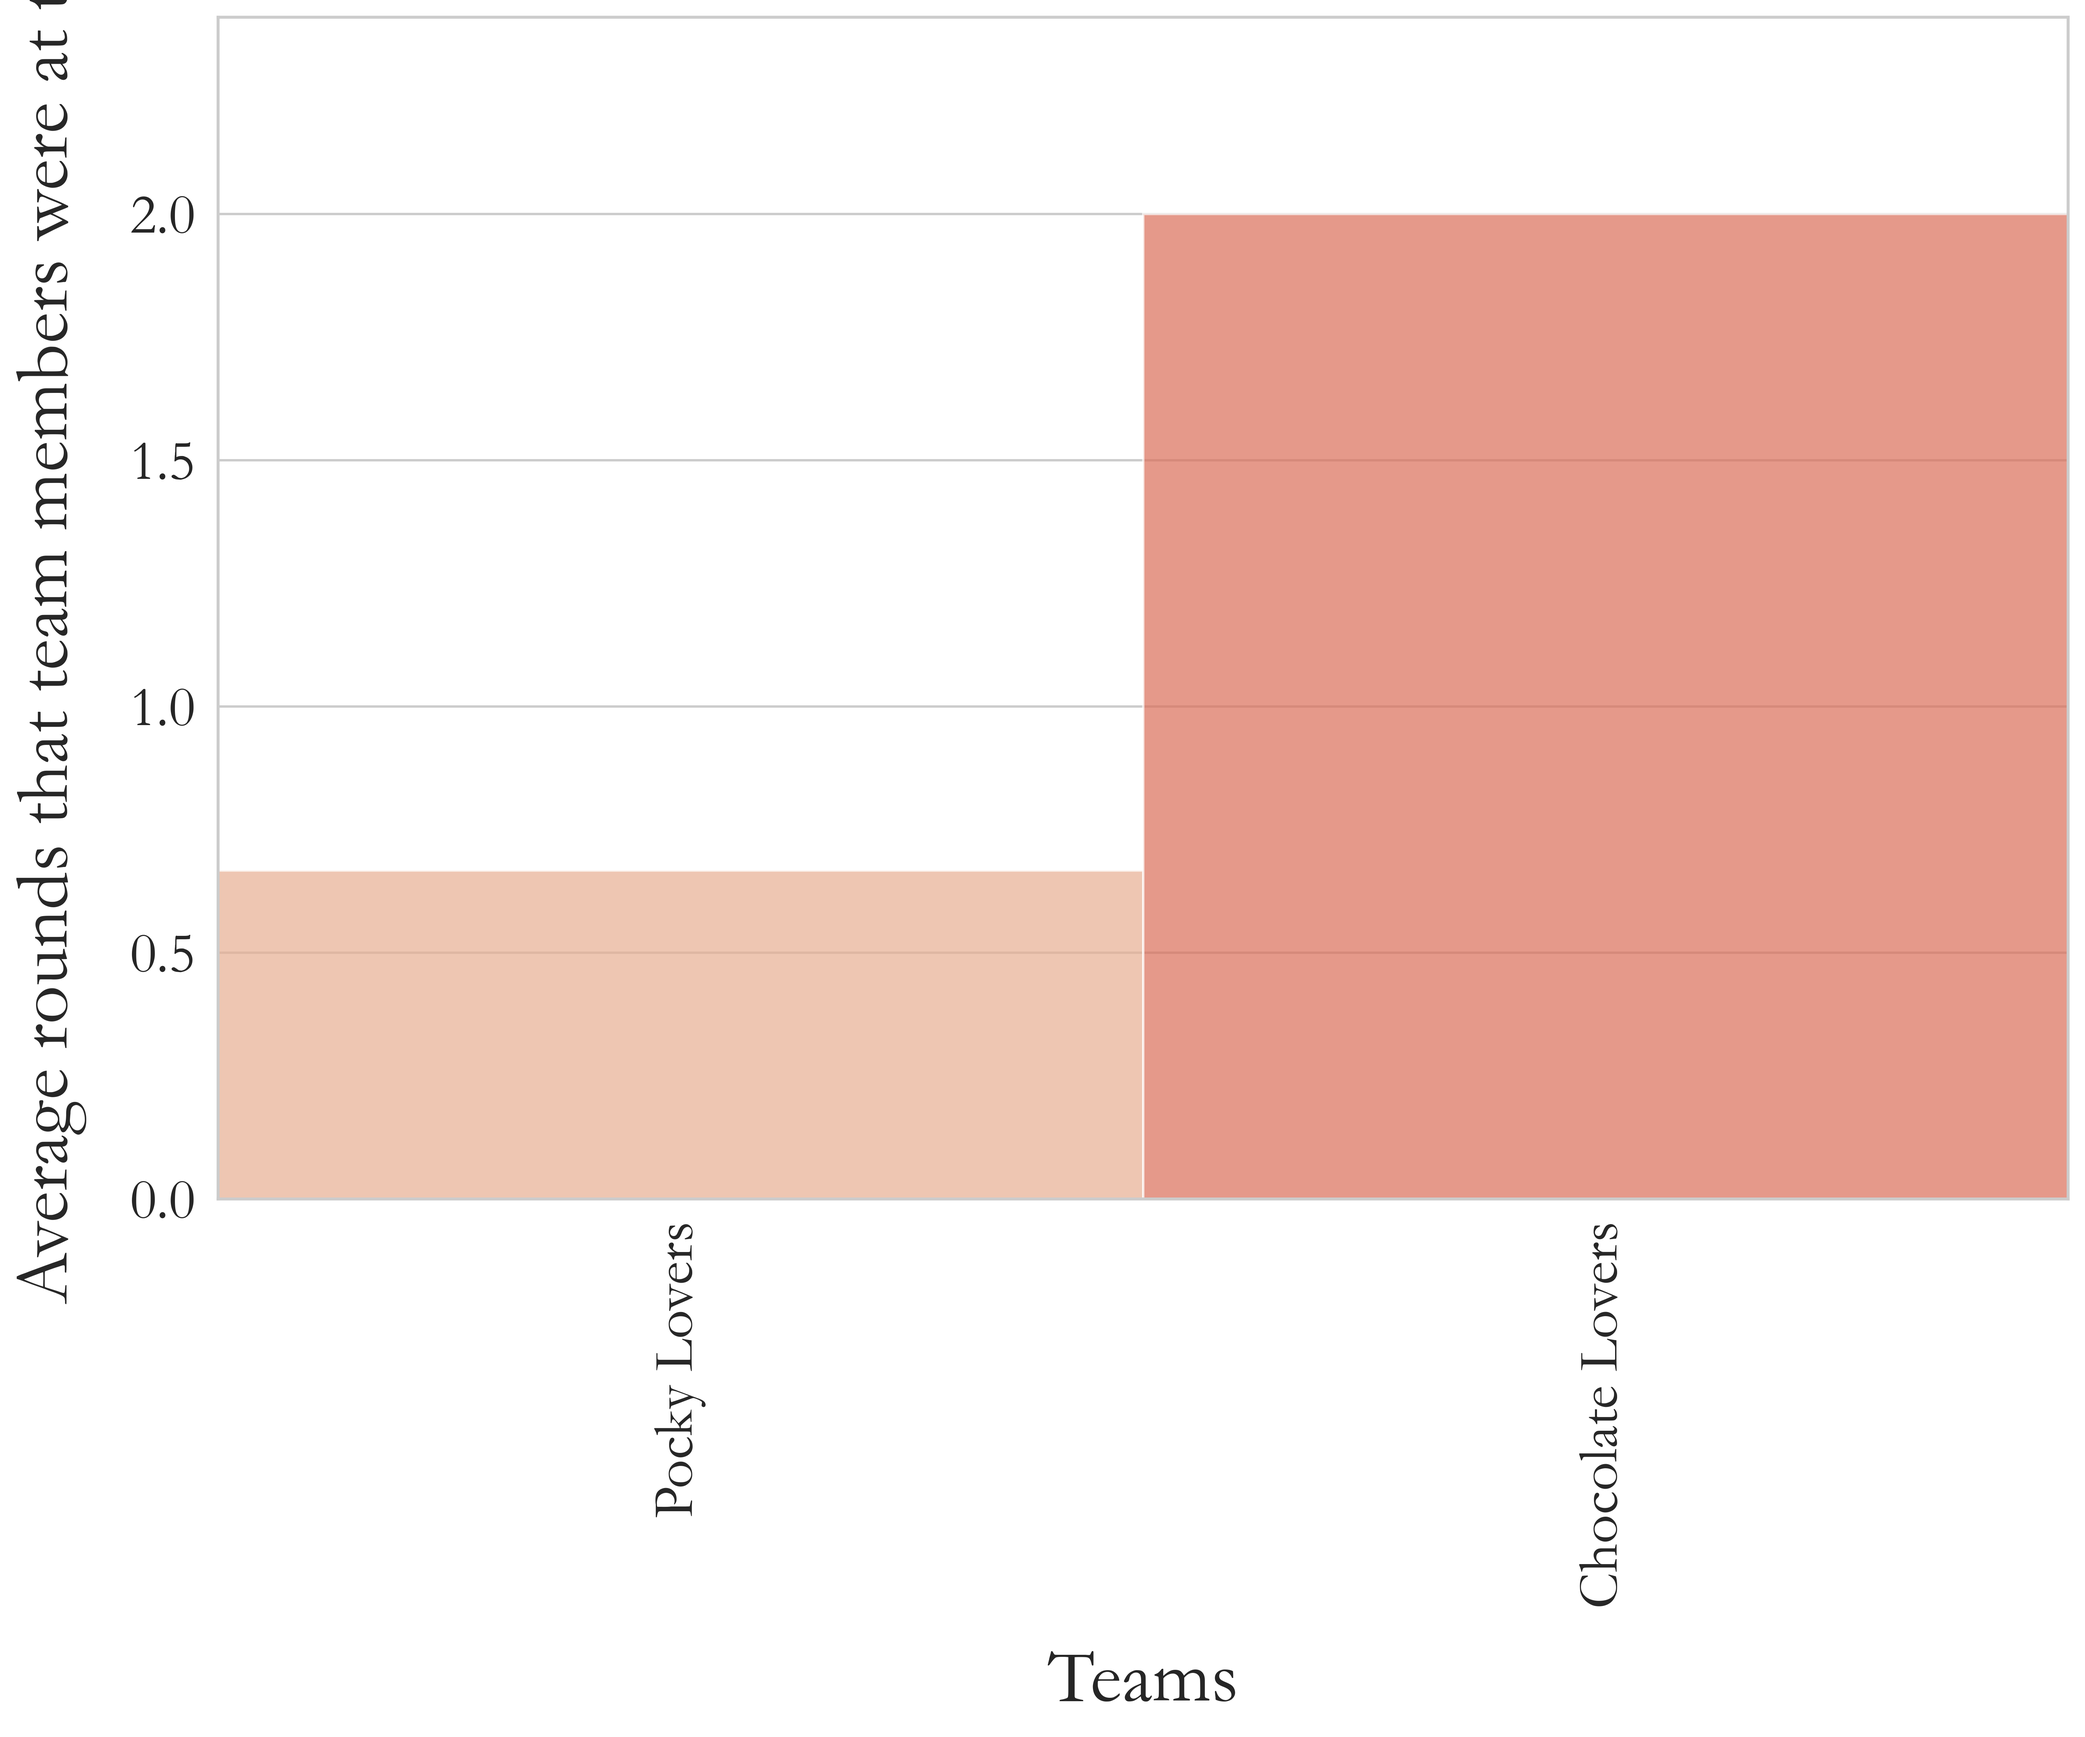
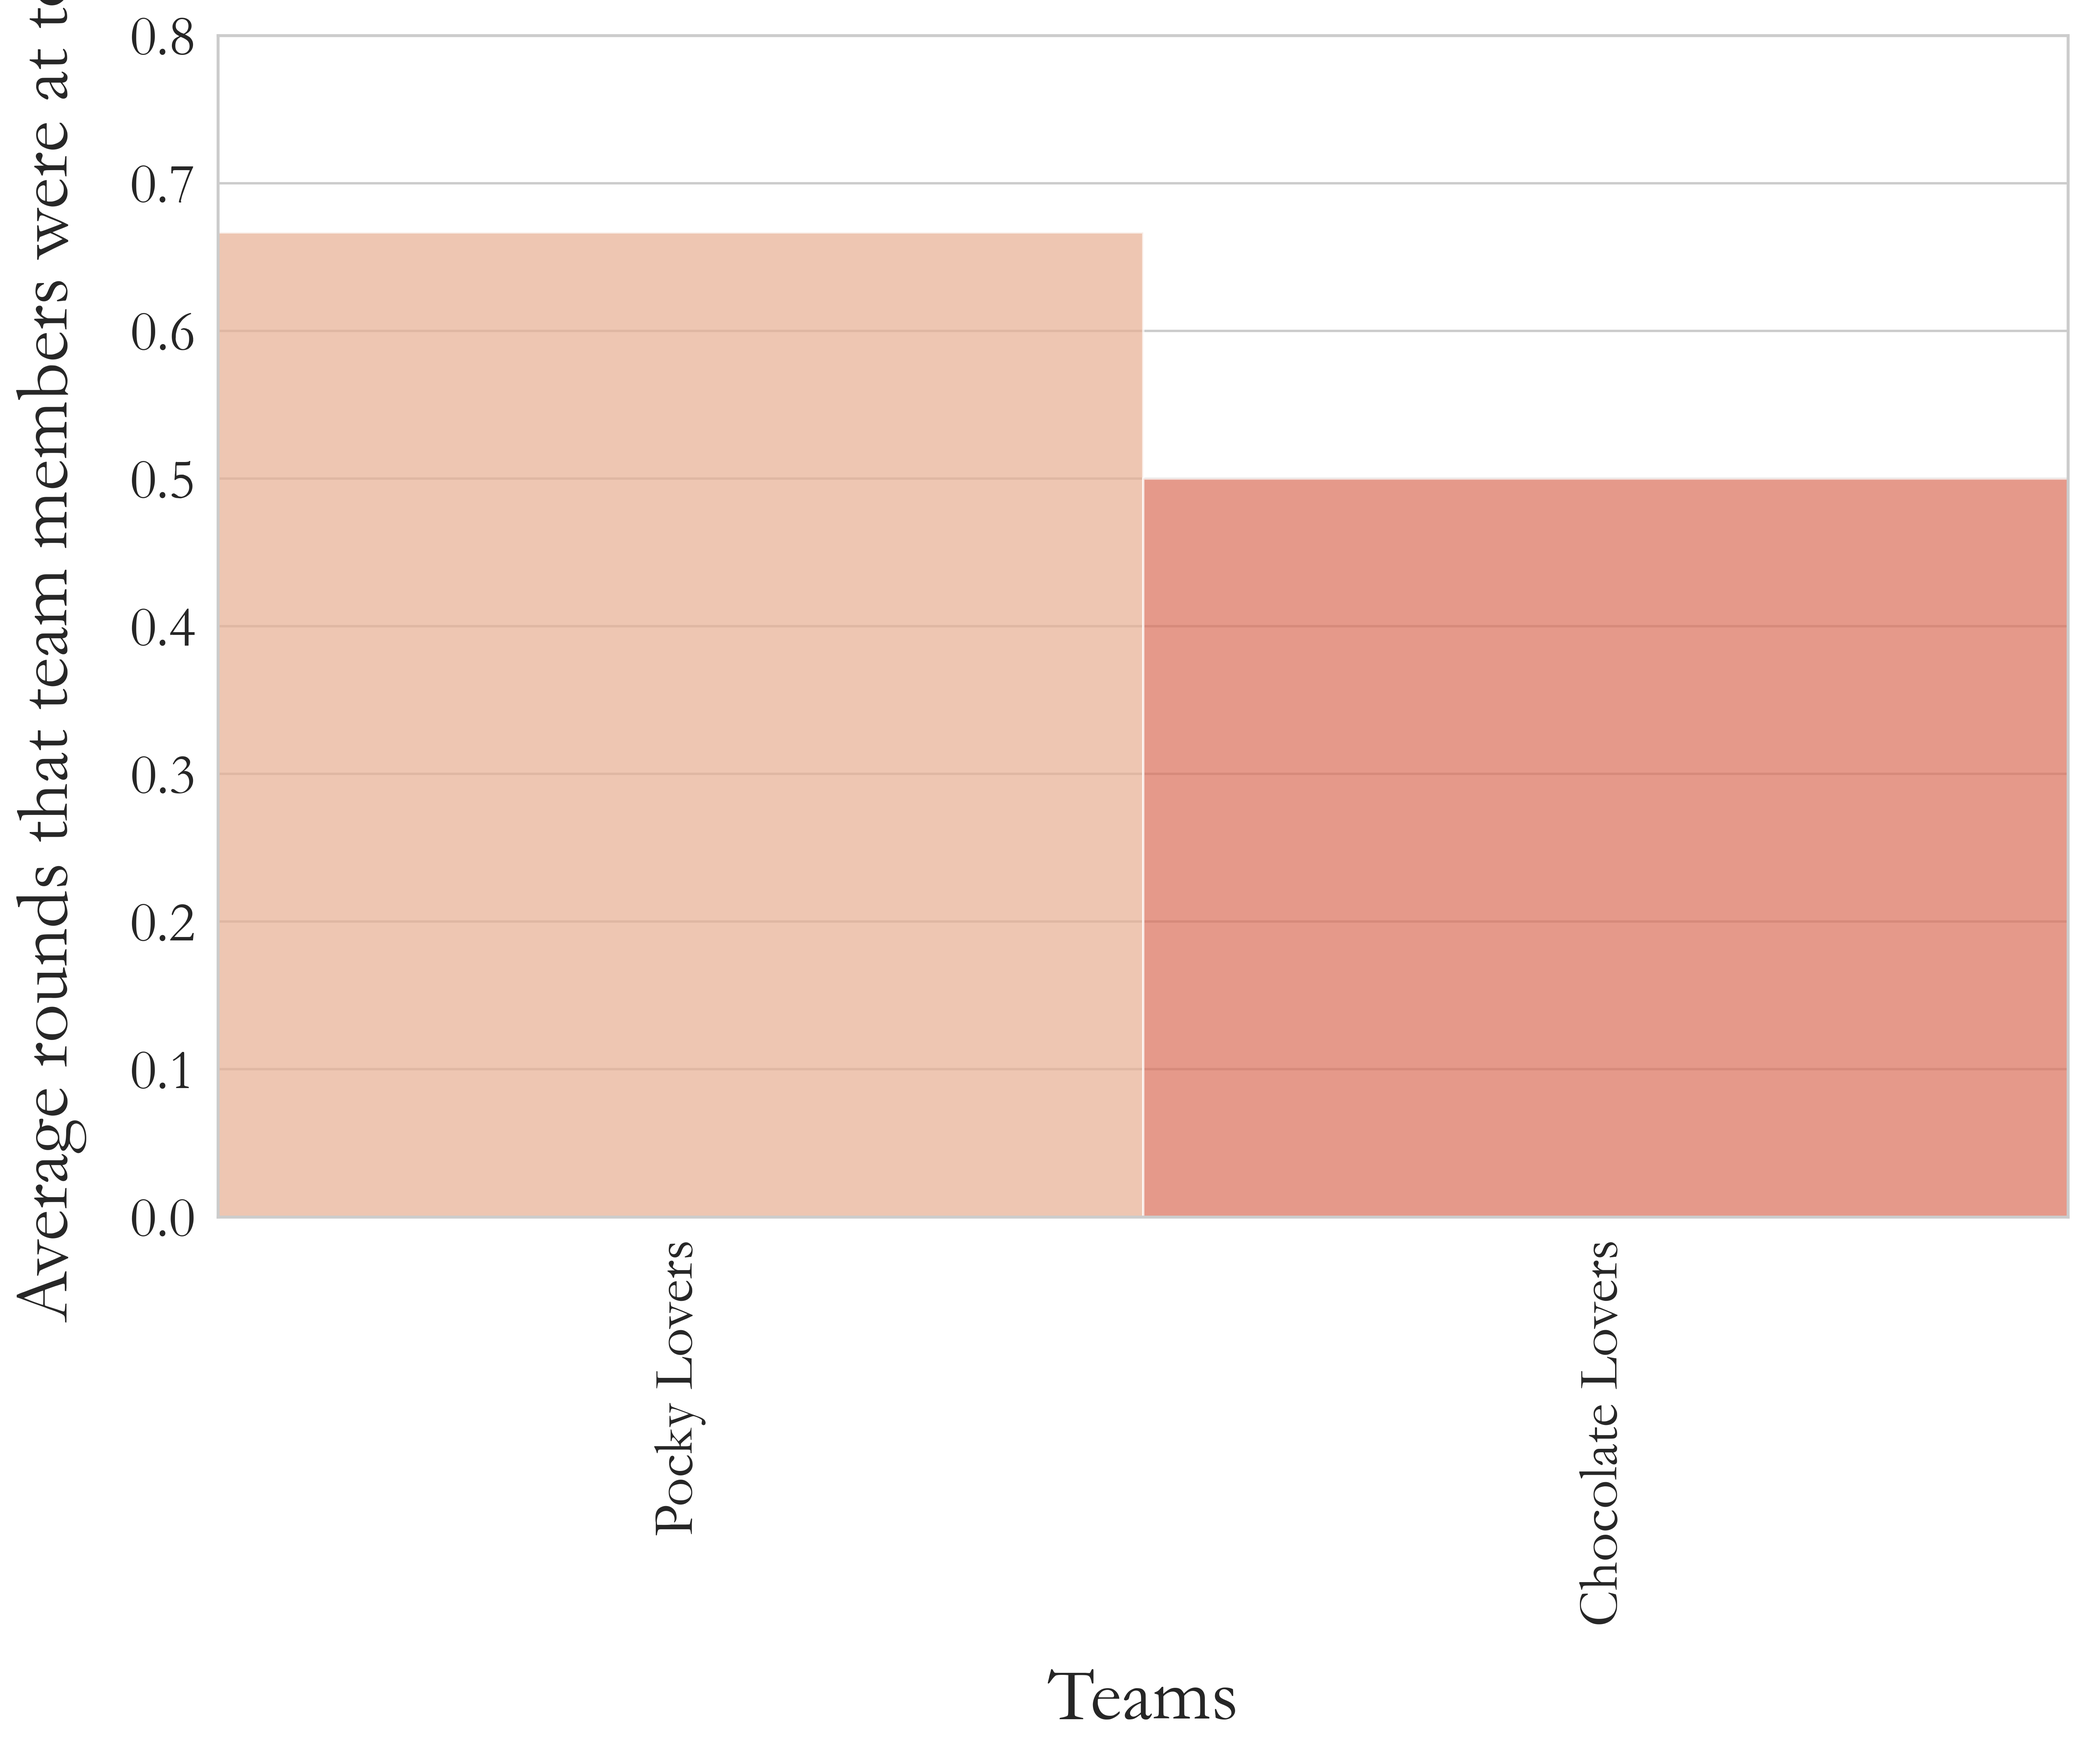
Added Graph 6

diff --git a/scores_analysis_and_visualisation.py b/scores_analysis_and_visualisation.py
@@ -40,6 +40,13 @@ def save_and_show_plot(filename, transparency):
 
 def print_paragraph(text):
     print("\n\n\n\n", 50 * "*", text, 50 * "*", "\n")
+    
+
+def determine_max_y_axis(depvar, dataset):
+    max_score = dataset[depvar].max()
+    max_y_axis = max_score + max_score * 0.2
+    return max_y_axis
+
 
 number_of_participants = data.shape[0]
 number_of_rounds = data.shape[1] - 3
@@ -51,12 +58,6 @@ print(f"""Check:
 - you have {number_of_rounds} rounds
 - you have {largest_team} members in your largest team.")
 """)
-
-
-def determine_max_y_axis(depvar, dataset):
-        max_score = dataset[depvar].max()
-        max_y_axis = max_score + max_score * 0.2
-        return max_y_axis
 
 
 counter = 0
@@ -215,7 +216,7 @@ while counter < 1:
     sns.set(style="whitegrid", font="Garamond")
     plt.rcParams["font.family"] = "Garamond"
     plt.figure(figsize=(14, 9))
-    sns.countplot(data=data, x="Team", hue="final_evaluation", dodge=True, palette={0: "#d18e75", 1: "#176482"}, alpha=0.7)
+    sns.countplot(data=data, x="Team", hue="final_evaluation", dodge=True, palette={0: "#d18e75", 1: "#176482"}, linewidth=2, alpha=0.7)
     plt.ylabel("Quantity", fontsize=32, labelpad=18)
     plt.xlabel("Teams", fontsize=32, labelpad=18)
     plt.xticks(fontsize=24, rotation=90)
@@ -227,9 +228,30 @@ while counter < 1:
     print_paragraph("TABLE - Proportion of Scores Above Average per Team")
     print_proportion_table_per_group("final_evaluation", "Team", data)
 
+    # GRAPH 6
+    teamdata_rounds = data.melt(id_vars=["Team", "Participant"],
+                                value_vars=["Round_1", "Round_2"],
+                                var_name="Round",
+                                value_name="Score")
+    mean_scores_team_round = teamdata_rounds.groupby(["Team", "Round"])["Score"].mean().reset_index()
 
+    print(teamdata_rounds)
+    max_y_axis = determine_max_y_axis("Score", mean_scores_team_round)
+    sns.set(style="whitegrid", font="Garamond")
+    plt.rcParams["font.family"] = "Garamond"
+    plt.figure(figsize=(14, 9))
+    sns.barplot(data=mean_scores_team_round, x="Team", y="Score", hue="Round", palette={"Round_1": "#d18e75", "Round_2": "#176482"}, alpha = 0.7, linewidth=2, errorbar = None)
+    plt.ylabel("Average score", fontsize=32, labelpad=18)
+    plt.xlabel("Teams", fontsize=32, labelpad=18)
+    plt.xticks(fontsize=24, rotation=90)
+    plt.yticks(fontsize=24)
+    plt.ylim(0, max_y_axis)
+    save_and_show_plot("Graph6", False)
 
+    print_paragraph("TABLE - Average score for teams in Round 1")
+    print(data.groupby(["Team"])["Round_1"].mean().reset_index)
 
+  
 
 
 
